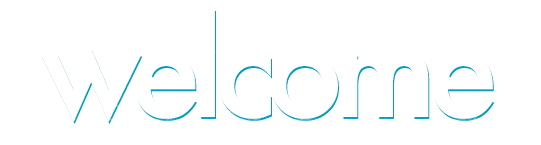
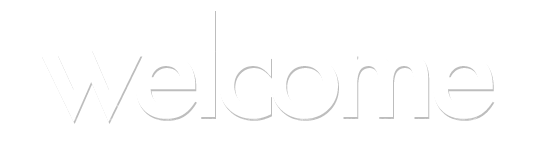
Updated about me
moved around text/imported pictures

diff --git a/css/style.css b/css/style.css
@@ -1,24 +1,18 @@
 body {
-	background-color: transparent;
+    width: 100%;
     margin-left: -80px;
+   padding-right: 20px;
+
 }
 
-* {
-	font-family: 'Muli', sans-serif;
-}
-
-.wrapper {
-width: 100%;
-margin: 0 auto;
-}
 
 header {
 	position: fixed;
-    width: 2500px;
+    width: 100%;
 	margin: -10px 0px 0px 0px;
 	z-index: 1;
     height: 71px;
-    background-color: rgba(0, 170, 190, 0.9);
+    background-color: rgba(191, 191, 191, 0.9);
 }
 
 header #header-logo {
@@ -46,6 +40,7 @@ header nav .menu-item {
     text-transform: uppercase;
     letter-spacing: 2px;
     font-size: 11px;
+    font-family: 'Muli';
     -moz-opacity: 0;
     -khtml-opacity: 0;
     -webkit-opacity: 0;
@@ -99,7 +94,6 @@ header nav .menu-item a{
     text-decoration: none;
 }
 
-
 header:hover nav .menu-item {
     -moz-opacity: 1;
     -khtml-opacity: 1;
@@ -115,13 +109,20 @@ header:hover nav .menu-item {
 
 
 section.intropage {
-    background-color: #00aabe;
-    width: 2000px;
+    background: #d6d6d6; /* Old browsers */
+/* IE9 SVG, needs conditional override of 'filter' to 'none' */
[1 lines of base64/hex data omitted]
+background: -moz-linear-gradient(top, #d6d6d6 0%, #d6d6d6 0%, #bfbfbf 0%, #e2e2e2 100%); /* FF3.6+ */
+background: -webkit-gradient(linear, left top, left bottom, color-stop(0%,#d6d6d6), color-stop(0%,#d6d6d6), color-stop(0%,#bfbfbf), color-stop(100%,#e2e2e2)); /* Chrome,Safari4+ */
+background: -webkit-linear-gradient(top, #d6d6d6 0%,#d6d6d6 0%,#bfbfbf 0%,#e2e2e2 100%); /* Chrome10+,Safari5.1+ */
+background: -o-linear-gradient(top, #d6d6d6 0%,#d6d6d6 0%,#bfbfbf 0%,#e2e2e2 100%); /* Opera 11.10+ */
+background: -ms-linear-gradient(top, #d6d6d6 0%,#d6d6d6 0%,#bfbfbf 0%,#e2e2e2 100%); /* IE10+ */
+background: linear-gradient(to bottom, #d6d6d6 0%,#d6d6d6 0%,#bfbfbf 0%,#e2e2e2 100%); /* W3C */
+filter: progid:DXImageTransform.Microsoft.gradient( startColorstr='#d6d6d6', endColorstr='#e2e2e2',GradientType=0 ); /* IE6-8 */
     padding-top: 160px;
     padding-bottom: 160px;
     padding-left: 100px;
     position: relative;
-    margin-left:0px;
 }
 
 section.intropage h1 {
@@ -134,6 +135,7 @@ section.intropage h1 {
 }
 
 section.intropage p {
+    font-family: 'Muli';
 	padding-left: 49px;
     margin-top: -50px;
     line-height: 0.8;
@@ -143,22 +145,26 @@ section.intropage p {
 }
 
 section.aboutpage {
-    background-color: #eeefff;
-    max-width: 1500px;
-    background-repeat: 100%;
+    background-color: #f6f6f6;
     padding-top: 160px;
-    padding-bottom: 160px;
+    padding-bottom: 100px;
     padding-left: 100px;
     position: relative;
 }
 
 section.aboutpage h1{
     text-align: center;
-    margin-top: -150px;
-    line-height: 0.8;    
+    margin-top: -110px;
     font-family: 'Muli', sans-serif;
     font-size: 42px;
+    font-weight: 300;
     color: #8C8C8C;
+}
+
+section.aboutpage img#panel{
+    display: inline;
+    float: right;
+    margin: 0 0 0 400px;
 }
 
 /* unvisited link */
@@ -192,9 +198,41 @@ display: inline;
    width:27%; margin-top: -300px; margin-left 200px;
 }
 
-section.aboutpage p{
+section.aboutpage p#small{
+    font-family: 'Montserrat', sans-serif;
+    display: inline;
+    font-size: 12px;
+    text-align: left;
+    color: #8c8c8c;
+}
+
+section.aboutpage p#small.phto{
+    margin-left:130px;
+}
+
+section.aboutpage p#small.wbdn{
+    margin-left:175px;
+}
+section.aboutpage a{
+    color: #323232;
+}
+
+section.aboutpage img#webpage{
+    margin-left: 200px;
+}
+
+section.aboutpage img#camera{
+    margin-left: 200px;
+}
+
+section.aboutpage p.aboutme{
     text-align: center;
     color: #8c8c8c;
     font-family: 'Muli';
     font-weight: 300;
+    font-size: 19px;
+    line-height: 2;
+    margin: -10px 100px 40px 100px;
 }
+
+

diff --git a/index.html b/index.html
@@ -5,6 +5,7 @@
 <meta charset="UTF-8">
 <link rel="stylesheet" type="text/css" href="css/style.css">
 <link href='http://fonts.googleapis.com/css?family=Muli:300,400' rel='stylesheet' type='text/css'>
+<link href='http://fonts.googleapis.com/css?family=Montserrat' rel='stylesheet' type='text/css'>
 </head>
 <body>
 <!--INTRO-->
@@ -30,15 +31,19 @@
         <img src="img/welcome.png" id="welcome" alt="welcome">
           <h1>Raafae Ghory</h1> 
             <p class="words">Frontend Developer/Graphic   Extrordinare/Photographer</p>
+            <img src="img/intro.png" id="panel">
 </section>  
 <!--end intro-->
 <!--begin about-->
 <section class="aboutpage" id="aboutpage">
 <a id="about"></a>
   <h1> about me </h1>
-    <p class="aboutme"> My name is Raafae Ghory, I'm a 16 year old aspiring front end designer/photographer. I have a passion for visual arts and have delt with projects from designing websites to directing and shooting videos. I currently attend East Brunswick High School</p>
+    <p class="aboutme"> My name is Raafae Ghory, I'm a 16 year old aspiring front end designer/photographer. I have a passion for visual arts and have delt with projects from designing websites to directing and shooting videos. I currently attend East Brunswick High School, and work as a freelancer, mainly designing artwork for a close aspiring rapper, <a href="http://www.soundcloud.com/baby_elephant">here</a>. </p>
     <img src="img/webpage.png" id="webpage">
-    <img src="img/camera.png" id="camera">
+    <img src="camera.png" id="camera">
+    <br>
+    <p id="small" class="wbdn">FRONT END WEBDESIGN</p>
+    <p id="small" class="phto">PROFESSIONAL PHOTOGRAPHY</p>
 </section>
 <!--end about-->
 <section class="prof" id="prof">
